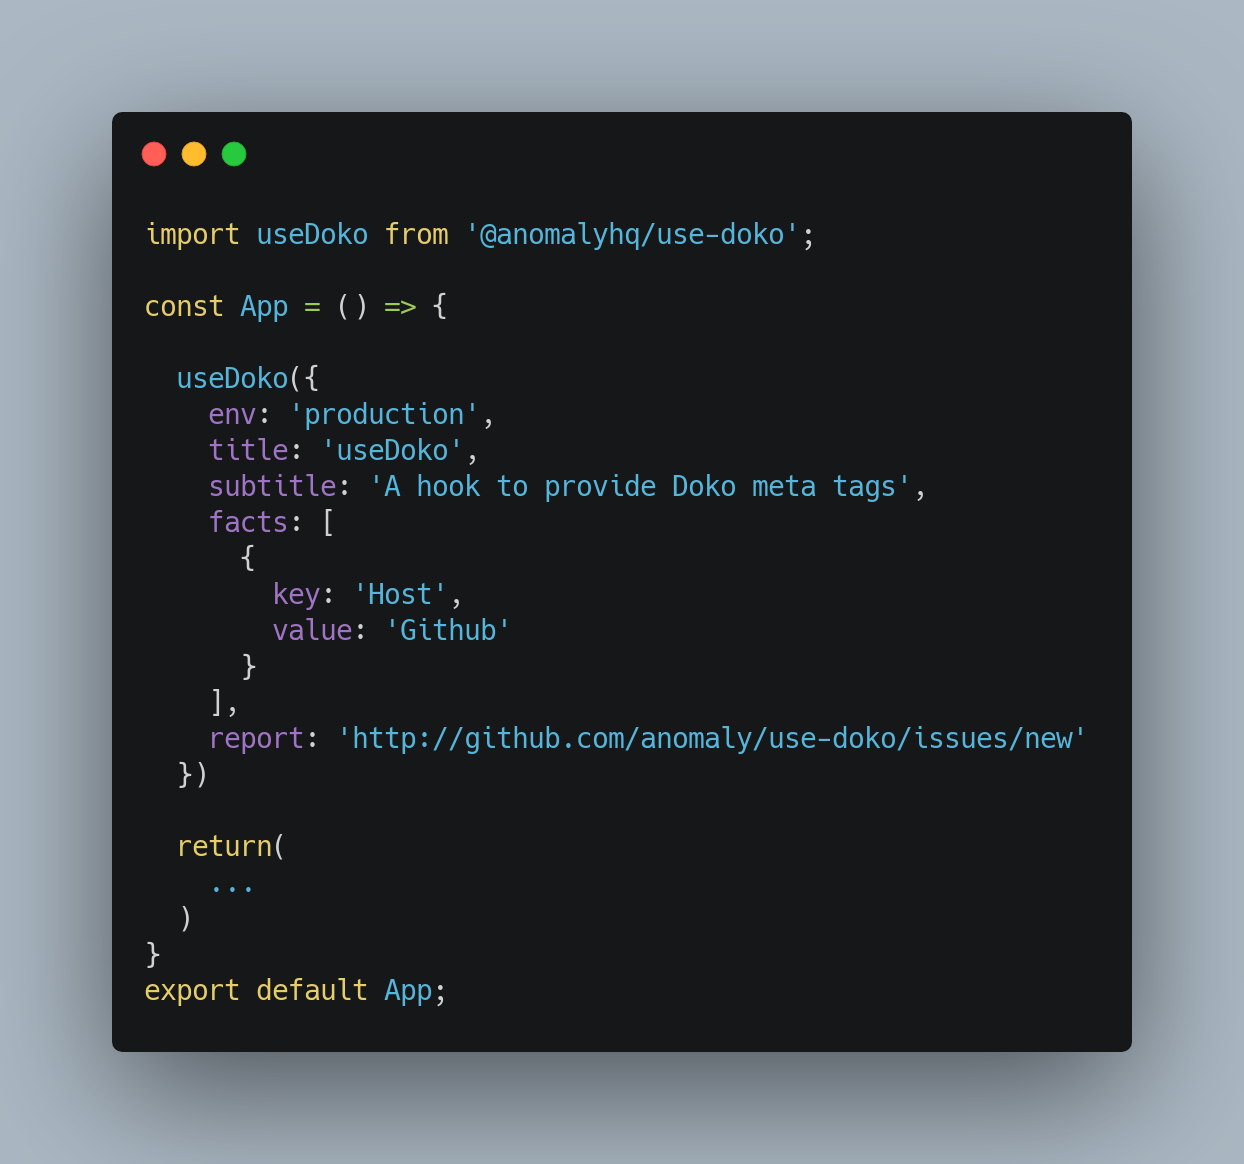
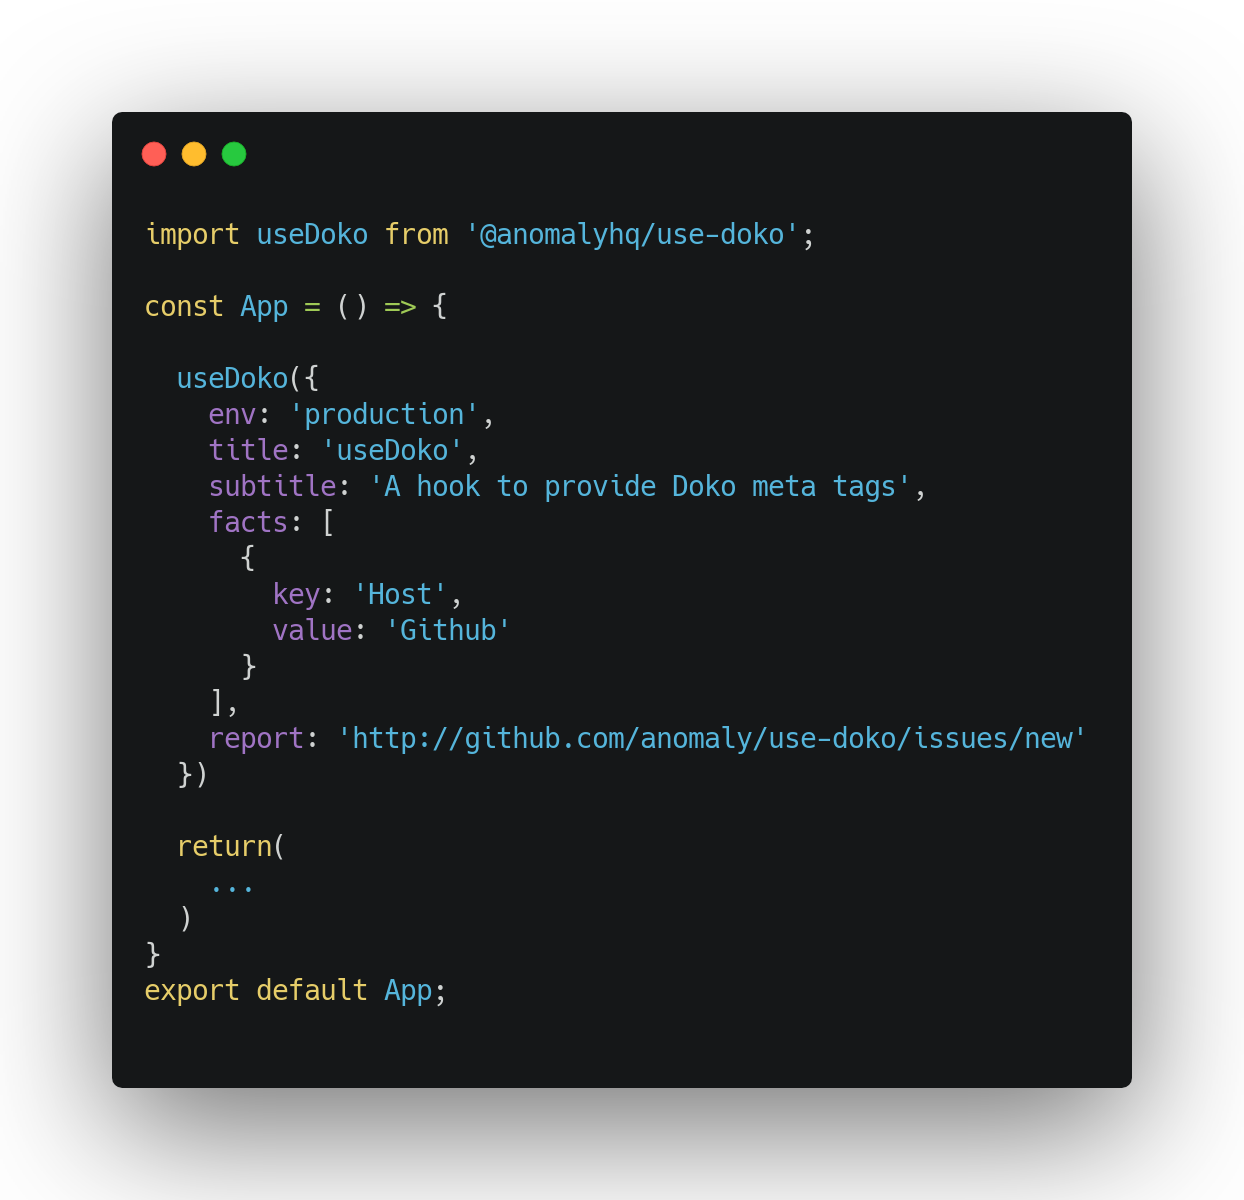
Updated Carbobn generated image

diff --git a/README.md b/README.md
@@ -1,5 +1,5 @@
 <p align="center">
-  <img width="512" src="assets/usage-carbon.png" alt="Doko usage example"/>
+  <img width="600" src="assets/usage-carbon.png" alt="Doko usage example"/>
 </p>
 
 useDoko
